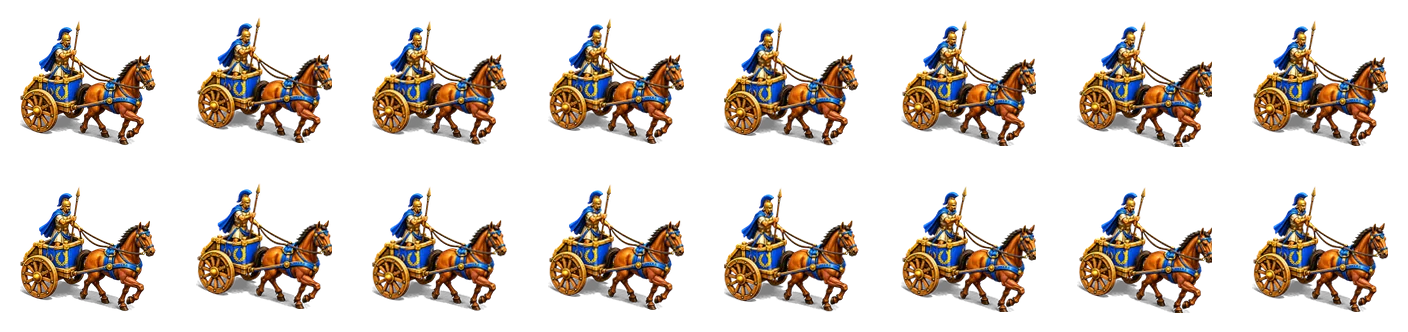
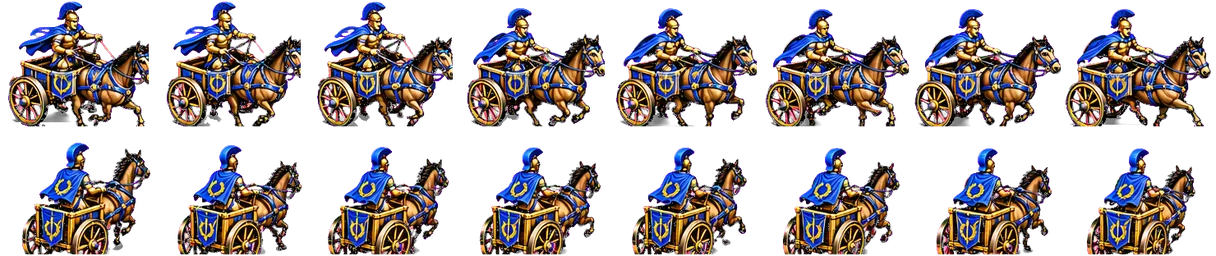
v15: Biblioteca egípcia (B3), Caravana completa (7 quadros + caída + costas), Carro de Guerra, General e Mercador com 8 quadros de frente e de costas
- folhas com ciclo próprio (wf/ws): o passo usa todos os quadros desenhados
- prédios comuns não cobrem mais a versão do povo (egípcios usam a biblioteca egípcia)
- recorte limpa pedaços soltos da fileira vizinha em cada quadro

Claude-Session: https://claude.ai/code/session_01GABPqirBMdktwhnGVNR9nv

diff --git a/index.html b/index.html
@@ -2485,9 +2485,10 @@ function drawUnit(u,selSet){
   // passo: o ciclo anda junto com a distância percorrida (o pé não escorrega no chão)
   const W=S.gpt&&WALK[key.slice(0,-1)];
   const md=hyp(u.x-(u._lx??u.x),u.y-(u._ly??u.y));u._lx=u.x;u._ly=u.y;
-  if(md>0&&md<24)u._wp=((u._wp||0)+md/(w8?S.ay*.95:W?W.cyc:40))%1;
+  if(md>0&&md<24)u._wp=((u._wp||0)+md/(w8?S.ay*.95:S.wf?S.wcyc:W?W.cyc:40))%1;
   let fr=0,bob=0,fx=null;
   if(w8){fr=((u._wp||0)*8|0)%8}
+  else if(S.wf&&u.mv){fr=S.ws+((u._wp||0)*S.wf|0)%S.wf}   // folhas com ciclo próprio de 7 ou 8 quadros
   else if(u.mv){const p=u._wp||0,k=(p*4|0)%4;
     if(W){fr=W.seq[k];bob=W.hum?1.7*(.5-.5*Math.cos(4*Math.PI*(p-.125))):1.1*(.5-.5*Math.cos(4*Math.PI*p));fx=W.fx[dir]&&W.fx[dir][fr]}
     else fr=1+k}
@@ -2579,8 +2580,8 @@ function drawHuntTool(t,S,u){const hx=S.w*.18,hy=-S.ay*.52;ctx.lineCap='round';
     if(pull){ctx.strokeStyle='#d9c9a0';ctx.lineWidth=1.1;ctx.beginPath();ctx.moveTo(ex-pull,hy);ctx.lineTo(cx+R+5,hy);ctx.stroke()}}
   else{ctx.strokeStyle='#3a2616';ctx.lineWidth=2.6;ctx.beginPath();ctx.moveTo(hx-8,hy+4);ctx.lineTo(hx+12,hy-3);ctx.stroke();ctx.strokeStyle='#5a5a5a';ctx.lineWidth=1.6;ctx.beginPath();ctx.moveTo(hx+2,hy);ctx.lineTo(hx+14,hy-4);ctx.stroke()}}
 
-// ---------- arte do GPT: medidas geradas pelo recorta.py / recorta2.py / recorta3.py / recorta4.py ----------
-const GPTART={"u":{"vill":{"w":42.07,"h":63.84,"ax":19.67,"ay":61.81,"dead":true,"team":true},"guer":{"w":41.61,"h":64.23,"ax":19.07,"ay":61.68,"dead":true,"team":true},"guerA":{"w":41.42,"h":66.79,"ax":19.13,"ay":62.96,"dead":true,"team":true},"espa":{"w":40.52,"h":61.66,"ax":17.35,"ay":55.26,"dead":true,"team":true},"gaz":{"w":33.73,"h":40.38,"ax":14.59,"ay":38.59,"dead":false,"team":false},"elfs":{"w":89.6,"h":94.0,"ax":36.36,"ay":89.2,"dead":false,"team":false},"leao":{"w":44.3,"h":45.13,"ax":23.65,"ay":43.48,"dead":false,"team":false},"hopl":{"w":28.14,"h":59.31,"ax":15.61,"ay":53.26,"dead":true,"team":true,"rows":2},"arq":{"w":28.04,"h":55.52,"ax":15.45,"ay":54.83,"dead":true,"team":true,"rows":2},"arqc":{"w":45.85,"h":63.82,"ax":22.28,"ay":61.29,"dead":true,"team":true,"rows":2},"sac":{"w":45.91,"h":68.86,"ax":22.32,"ay":62.95,"dead":true,"team":true,"rows":2},"bat":{"w":60.55,"h":68.51,"ax":31.4,"ay":65.33,"dead":true,"team":true,"rows":2},"cav":{"w":62.27,"h":80.02,"ax":32.72,"ay":74.83,"dead":true,"team":true,"rows":2},"arqcav":{"w":54.38,"h":105.38,"ax":25.15,"ay":91.36,"dead":true,"team":true,"rows":2},"elef":{"w":74.34,"h":142.63,"ax":29.85,"ay":114.37,"dead":true,"team":true,"rows":2},"pedra":{"w":71.9,"h":125.71,"ax":32.72,"ay":109.52,"dead":true,"team":true,"rows":1},"bal":{"w":66.62,"h":126.18,"ax":32.26,"ay":108.97,"dead":true,"team":true,"rows":1},"bguer":{"w":103.38,"h":58.15,"ax":54.2,"ay":57.35,"dead":false,"team":true,"rows":1},"trans":{"w":100.03,"h":60.52,"ax":56.76,"ay":59.12,"dead":false,"team":true,"rows":1},"pesc":{"w":79.5,"h":48.59,"ax":42.91,"ay":46.71,"dead":false,"team":true,"rows":1},"trir":{"w":107.17,"h":65.51,"ax":56.59,"ay":64.6,"dead":false,"team":true,"rows":1},"villW":{"w":47.84,"h":52.16,"ax":26.88,"ay":50.87,"dead":false,"team":true,"rows":2,"walk8":true},"caravana":{"w":66.0,"h":55.0,"ax":32.89,"ay":50.91,"dead":false,"team":true,"rows":2},"carroca":{"w":61.0,"h":55.0,"ax":30.34,"ay":50.72,"dead":false,"team":true,"rows":2},"mercador":{"w":50.5,"h":59.0,"ax":22.79,"ay":54.7,"dead":false,"team":true,"rows":2},"general":{"w":54.5,"h":64.0,"ax":24.86,"ay":59.79,"dead":false,"team":true,"rows":2},"carro":{"w":88.0,"h":83.0,"ax":44.03,"ay":65.0,"dead":false,"team":true,"rows":2,"rock":true}},"b":{"grego":{"tc":{"W":194.57,"H":192.51,"xc":97.03,"top":94.46,"cy":142.46,"bt":1.54,"dw":192.0,"r":[0,0,389,385],"at":"P1"},"casa":{"W":130.77,"H":105.86,"xc":65.38,"top":40.48,"cy":72.48,"bt":1.04,"dw":128.0,"r":[391,0,262,212],"at":"P1"},"celeiro":{"W":133.27,"H":107.25,"xc":67.52,"top":41.85,"cy":73.85,"bt":1.05,"dw":128.0,"r":[655,0,267,215],"at":"P1"},"deposito":{"W":129.72,"H":109.13,"xc":65.03,"top":43.75,"cy":75.75,"bt":1.03,"dw":128.0,"r":[924,0,259,218],"at":"P1"},"mercado":{"W":192.51,"H":176.72,"xc":96.0,"top":78.18,"cy":126.18,"bt":1.53,"dw":192.0,"r":[1185,0,385,353],"at":"P1"},"doca":{"W":132.25,"H":107.79,"xc":66.13,"top":42.02,"cy":74.02,"bt":1.06,"dw":128.0,"r":[1572,0,265,216],"at":"P1"},"torre":{"W":74.62,"H":91.23,"xc":37.31,"top":54.55,"cy":72.47,"bt":0.63,"dw":71.68,"r":[1839,0,149,182],"at":"P1"},"muralha":{"W":69.52,"H":66.76,"xc":37.15,"top":34.02,"cy":50.02,"bt":0.55,"dw":64.0,"r":[1990,0,139,134],"at":"P1"},"quartel":{"W":192.51,"H":169.08,"xc":96.0,"top":71.05,"cy":119.05,"bt":1.53,"dw":192.0,"r":[0,0,385,338],"at":"P2"},"arquearia":{"W":196.67,"H":158.27,"xc":100.15,"top":60.19,"cy":108.19,"bt":1.56,"dw":192.0,"r":[387,0,393,317],"at":"P2"},"estabulo":{"W":192.51,"H":165.59,"xc":96.0,"top":67.05,"cy":115.05,"bt":1.52,"dw":192.0,"r":[782,0,385,331],"at":"P2"},"academia":{"W":192.51,"H":164.5,"xc":96.0,"top":66.46,"cy":114.46,"bt":1.53,"dw":192.0,"r":[1169,0,385,329],"at":"P2"},"templo":{"W":194.57,"H":194.06,"xc":98.06,"top":96.0,"cy":144.0,"bt":1.54,"dw":192.0,"r":[1556,0,389,388],"at":"P2"},"oficina":{"W":192.51,"H":170.67,"xc":96.0,"top":72.13,"cy":120.13,"bt":1.52,"dw":192.0,"r":[1947,0,385,341],"at":"P2"},"maravilha":{"W":256.68,"H":327.11,"xc":128.0,"top":197.08,"cy":261.08,"bt":2.03,"dw":256.0,"r":[2334,0,513,654],"at":"P2"},"alicerce":{"W":128.34,"H":120.87,"xc":64.0,"top":55.51,"cy":87.51,"bt":1.02,"dw":128.0,"r":[2849,0,257,242],"at":"P2"}},"egito":{"tc":{"W":193.05,"H":240.26,"xc":96.0,"top":140.07,"cy":188.07,"bt":3.15,"dw":192.0,"at":"E","r":[0,0,386,481]},"casa":{"W":130.84,"H":128.0,"xc":66.13,"top":60.44,"cy":92.44,"bt":2.13,"dw":128.0,"at":"E","r":[388,0,262,256]},"celeiro":{"W":128.7,"H":150.38,"xc":64.0,"top":83.58,"cy":115.58,"bt":2.1,"dw":128.0,"at":"E","r":[652,0,257,301]},"deposito":{"W":128.7,"H":160.17,"xc":64.0,"top":93.38,"cy":125.38,"bt":2.1,"dw":128.0,"at":"E","r":[911,0,257,320]},"mercado":{"W":193.05,"H":224.52,"xc":96.0,"top":124.33,"cy":172.33,"bt":3.15,"dw":192.0,"at":"E","r":[1170,0,386,449]},"doca":{"W":134.58,"H":160.18,"xc":69.85,"top":93.26,"cy":125.26,"bt":2.19,"dw":128.0,"at":"E","r":[1558,0,269,320]},"torre":{"W":85.09,"H":138.27,"xc":44.63,"top":100.12,"cy":118.04,"bt":1.39,"dw":71.68,"at":"E","r":[1829,0,170,277]},"quartel":{"W":196.27,"H":238.93,"xc":99.2,"top":137.6,"cy":185.6,"bt":3.2,"dw":192.0,"at":"E","r":[2001,0,393,478]},"arquearia":{"W":193.05,"H":223.48,"xc":96.0,"top":122.23,"cy":170.23,"bt":3.15,"dw":192.0,"at":"E","r":[2396,0,386,447]},"estabulo":{"W":193.05,"H":226.62,"xc":96.0,"top":126.43,"cy":174.43,"bt":3.15,"dw":192.0,"at":"E","r":[2784,0,386,453]},"academia":{"W":196.27,"H":243.2,"xc":99.2,"top":141.87,"cy":189.87,"bt":3.2,"dw":192.0,"at":"E","r":[3172,0,393,486]},"templo":{"W":194.11,"H":282.73,"xc":97.05,"top":181.45,"cy":229.45,"bt":3.16,"dw":192.0,"at":"E","r":[3567,0,388,565]},"oficina":{"W":198.47,"H":259.96,"xc":101.39,"top":159.64,"cy":207.64,"bt":3.24,"dw":192.0,"at":"E","r":[3957,0,397,520]},"maravilha":{"W":257.4,"H":267.19,"xc":128.0,"top":133.6,"cy":197.6,"bt":4.2,"dw":256.0,"at":"E","r":[4356,0,515,534]}},"comum":{"biblioteca":{"W":199.56,"H":213.71,"xc":100.15,"top":112.81,"cy":161.77,"bt":2.23,"dw":195.84,"r":[0,0,399,427],"at":"R1"},"forte":{"W":204.69,"H":137.0,"xc":102.35,"top":35.09,"cy":85.97,"bt":0.44,"dw":203.52,"r":[401,0,409,274],"at":"R1"}}},"n":{"tree0":{"W":78.5,"H":85.21,"xc":39.25,"top":49.31,"cy":66.81,"bt":0.67,"dw":70.0,"r":[0,0,157,170],"at":"N1"},"tree1":{"W":82.17,"H":92.36,"xc":41.3,"top":51.27,"cy":71.27,"bt":0.65,"dw":80.0,"r":[159,0,164,185],"at":"N1"},"tree3":{"W":81.59,"H":103.26,"xc":40.79,"top":69.29,"cy":85.79,"bt":0.73,"dw":66.0,"r":[325,0,163,207],"at":"N1"},"tree4":{"W":64.16,"H":90.42,"xc":32.08,"top":62.58,"cy":76.08,"bt":0.64,"dw":54.0,"r":[490,0,128,181],"at":"N1"},"tree5":{"W":80.34,"H":102.58,"xc":40.17,"top":68.6,"cy":85.1,"bt":0.74,"dw":66.0,"r":[620,0,161,205],"at":"N1"},"tree6":{"W":95.33,"H":110.81,"xc":40.6,"top":76.73,"cy":93.23,"bt":0.81,"dw":66.0,"r":[783,0,191,222],"at":"N1"},"tree7":{"W":100.45,"H":90.08,"xc":46.5,"top":51.02,"cy":70.02,"bt":0.8,"dw":76.0,"r":[976,0,201,180],"at":"N1"},"berry":{"W":66.01,"H":55.26,"xc":33.01,"top":26.33,"cy":40.33,"bt":0.56,"dw":56.0,"r":[1179,0,132,111],"at":"N1"},"gold":{"W":60.97,"H":40.43,"xc":30.49,"top":9.78,"cy":24.78,"bt":0.49,"dw":60.0,"r":[0,0,122,81],"at":"N2"},"mina":{"W":97.28,"H":85.99,"xc":49.03,"top":36.96,"cy":60.96,"bt":0.77,"dw":96.0,"r":[124,0,195,172],"at":"N2"},"stone":{"W":61.3,"H":41.68,"xc":30.65,"top":11.03,"cy":26.03,"bt":0.49,"dw":60.0,"r":[321,0,123,83],"at":"N2"},"pedreira":{"W":97.29,"H":89.29,"xc":49.03,"top":40.26,"cy":64.26,"bt":0.77,"dw":96.0,"r":[446,0,195,179],"at":"N2"},"fish":{"W":62.86,"H":42.1,"xc":31.43,"top":13.33,"cy":27.33,"bt":0.57,"dw":56.0,"r":[643,0,126,84],"at":"N2"},"carc":{"W":59.25,"H":34.02,"xc":29.63,"top":4.23,"cy":18.73,"bt":0.47,"dw":58.0,"r":[771,0,119,68],"at":"N2"},"carcE":{"W":83.55,"H":58.35,"xc":41.66,"top":16.25,"cy":36.75,"bt":0.66,"dw":82.0,"r":[892,0,167,117],"at":"N2"},"toco":{"W":40.98,"H":25.5,"xc":20.33,"top":4.96,"cy":14.96,"bt":0.33,"dw":40.0,"r":[1061,0,82,51],"at":"N2"}},"x":{"raro_gemas":{"W":87.11,"H":67.41,"xc":43.56,"top":23.33,"cy":44.33,"bt":1.56,"dw":84.0,"r":[0,0,174,135],"at":"R2"},"raro_uvas":{"W":86.74,"H":73.04,"xc":43.37,"top":29.22,"cy":50.22,"bt":1.37,"dw":84.0,"r":[176,0,173,146],"at":"R2"},"raro_sal":{"W":87.05,"H":64.15,"xc":43.53,"top":20.11,"cy":41.11,"bt":1.53,"dw":84.0,"r":[351,0,174,128],"at":"R2"},"raro_cavalos":{"W":87.65,"H":74.41,"xc":43.83,"top":30.59,"cy":51.59,"bt":1.37,"dw":84.0,"r":[527,0,175,149],"at":"R2"},"raro_cedro":{"W":87.02,"H":80.98,"xc":43.51,"top":36.97,"cy":57.97,"bt":1.51,"dw":84.0,"r":[704,0,174,162],"at":"R2"},"raro_marmore":{"W":87.07,"H":79.39,"xc":43.54,"top":35.34,"cy":56.34,"bt":1.54,"dw":84.0,"r":[880,0,174,159],"at":"R2"},"raro_seda":{"W":87.05,"H":84.0,"xc":43.53,"top":39.96,"cy":60.96,"bt":1.53,"dw":84.0,"r":[1056,0,174,168],"at":"R2"},"raro_ervas":{"W":87.23,"H":77.54,"xc":43.62,"top":33.38,"cy":54.38,"bt":1.62,"dw":84.0,"r":[1232,0,174,155],"at":"R2"},"ruina0":{"W":121.16,"H":123.27,"xc":60.58,"top":62.16,"cy":91.66,"bt":1.58,"dw":118.0,"r":[1408,0,242,247],"at":"R2"},"ruina1":{"W":121.69,"H":108.32,"xc":60.84,"top":47.02,"cy":76.52,"bt":1.38,"dw":118.0,"r":[1652,0,243,217],"at":"R2"},"ruina2":{"W":121.79,"H":109.94,"xc":60.9,"top":49.05,"cy":78.55,"bt":1.42,"dw":118.0,"r":[1897,0,244,220],"at":"R2"},"ruina3":{"W":121.08,"H":119.54,"xc":60.54,"top":57.97,"cy":87.47,"bt":1.54,"dw":118.0,"r":[2143,0,242,239],"at":"R2"},"ruina4":{"W":121.63,"H":119.82,"xc":60.82,"top":58.39,"cy":87.89,"bt":1.82,"dw":118.0,"r":[2387,0,243,240],"at":"R2"},"ruina5":{"W":121.49,"H":119.16,"xc":60.74,"top":57.84,"cy":87.34,"bt":1.74,"dw":118.0,"r":[2632,0,243,238],"at":"R2"}}};
+// ---------- arte do GPT: medidas geradas pelos recorta*.py ----------
+const GPTART={"u":{"vill":{"w":42.07,"h":63.84,"ax":19.67,"ay":61.81,"dead":true,"team":true},"guer":{"w":41.61,"h":64.23,"ax":19.07,"ay":61.68,"dead":true,"team":true},"guerA":{"w":41.42,"h":66.79,"ax":19.13,"ay":62.96,"dead":true,"team":true},"espa":{"w":40.52,"h":61.66,"ax":17.35,"ay":55.26,"dead":true,"team":true},"gaz":{"w":33.73,"h":40.38,"ax":14.59,"ay":38.59,"dead":false,"team":false},"elfs":{"w":89.6,"h":94.0,"ax":36.36,"ay":89.2,"dead":false,"team":false},"leao":{"w":44.3,"h":45.13,"ax":23.65,"ay":43.48,"dead":false,"team":false},"hopl":{"w":28.14,"h":59.31,"ax":15.61,"ay":53.26,"dead":true,"team":true,"rows":2},"arq":{"w":28.04,"h":55.52,"ax":15.45,"ay":54.83,"dead":true,"team":true,"rows":2},"arqc":{"w":45.85,"h":63.82,"ax":22.28,"ay":61.29,"dead":true,"team":true,"rows":2},"sac":{"w":45.91,"h":68.86,"ax":22.32,"ay":62.95,"dead":true,"team":true,"rows":2},"bat":{"w":60.55,"h":68.51,"ax":31.4,"ay":65.33,"dead":true,"team":true,"rows":2},"cav":{"w":62.27,"h":80.02,"ax":32.72,"ay":74.83,"dead":true,"team":true,"rows":2},"arqcav":{"w":54.38,"h":105.38,"ax":25.15,"ay":91.36,"dead":true,"team":true,"rows":2},"elef":{"w":74.34,"h":142.63,"ax":29.85,"ay":114.37,"dead":true,"team":true,"rows":2},"pedra":{"w":71.9,"h":125.71,"ax":32.72,"ay":109.52,"dead":true,"team":true,"rows":1},"bal":{"w":66.62,"h":126.18,"ax":32.26,"ay":108.97,"dead":true,"team":true,"rows":1},"bguer":{"w":103.38,"h":58.15,"ax":54.2,"ay":57.35,"dead":false,"team":true,"rows":1},"trans":{"w":100.03,"h":60.52,"ax":56.76,"ay":59.12,"dead":false,"team":true,"rows":1},"pesc":{"w":79.5,"h":48.59,"ax":42.91,"ay":46.71,"dead":false,"team":true,"rows":1},"trir":{"w":107.17,"h":65.51,"ax":56.59,"ay":64.6,"dead":false,"team":true,"rows":1},"villW":{"w":47.84,"h":52.16,"ax":26.88,"ay":50.87,"dead":false,"team":true,"rows":2,"walk8":true},"caravana":{"w":42.35,"h":48.84,"ax":27.15,"ay":47.01,"dead":true,"team":true,"rows":2,"wf":7,"ws":0},"carroca":{"w":61.0,"h":55.0,"ax":30.34,"ay":50.72,"dead":false,"team":true,"rows":2},"mercador":{"w":50.4,"h":57.6,"ax":25.62,"ay":56.0,"dead":false,"team":true,"rows":2,"wf":8,"ws":0},"general":{"w":58.69,"h":68.13,"ax":32.6,"ay":66.9,"dead":false,"team":true,"rows":2,"wf":8,"ws":0},"carro":{"w":75.96,"h":64.05,"ax":34.31,"ay":62.82,"dead":false,"team":true,"rows":2,"wf":8,"ws":0}},"b":{"grego":{"tc":{"W":194.57,"H":192.51,"xc":97.03,"top":94.46,"cy":142.46,"bt":1.54,"dw":192.0,"r":[0,0,389,385],"at":"P1"},"casa":{"W":130.77,"H":105.86,"xc":65.38,"top":40.48,"cy":72.48,"bt":1.04,"dw":128.0,"r":[391,0,262,212],"at":"P1"},"celeiro":{"W":133.27,"H":107.25,"xc":67.52,"top":41.85,"cy":73.85,"bt":1.05,"dw":128.0,"r":[655,0,267,215],"at":"P1"},"deposito":{"W":129.72,"H":109.13,"xc":65.03,"top":43.75,"cy":75.75,"bt":1.03,"dw":128.0,"r":[924,0,259,218],"at":"P1"},"mercado":{"W":192.51,"H":176.72,"xc":96.0,"top":78.18,"cy":126.18,"bt":1.53,"dw":192.0,"r":[1185,0,385,353],"at":"P1"},"doca":{"W":132.25,"H":107.79,"xc":66.13,"top":42.02,"cy":74.02,"bt":1.06,"dw":128.0,"r":[1572,0,265,216],"at":"P1"},"torre":{"W":74.62,"H":91.23,"xc":37.31,"top":54.55,"cy":72.47,"bt":0.63,"dw":71.68,"r":[1839,0,149,182],"at":"P1"},"muralha":{"W":69.52,"H":66.76,"xc":37.15,"top":34.02,"cy":50.02,"bt":0.55,"dw":64.0,"r":[1990,0,139,134],"at":"P1"},"quartel":{"W":192.51,"H":169.08,"xc":96.0,"top":71.05,"cy":119.05,"bt":1.53,"dw":192.0,"r":[0,0,385,338],"at":"P2"},"arquearia":{"W":196.67,"H":158.27,"xc":100.15,"top":60.19,"cy":108.19,"bt":1.56,"dw":192.0,"r":[387,0,393,317],"at":"P2"},"estabulo":{"W":192.51,"H":165.59,"xc":96.0,"top":67.05,"cy":115.05,"bt":1.52,"dw":192.0,"r":[782,0,385,331],"at":"P2"},"academia":{"W":192.51,"H":164.5,"xc":96.0,"top":66.46,"cy":114.46,"bt":1.53,"dw":192.0,"r":[1169,0,385,329],"at":"P2"},"templo":{"W":194.57,"H":194.06,"xc":98.06,"top":96.0,"cy":144.0,"bt":1.54,"dw":192.0,"r":[1556,0,389,388],"at":"P2"},"oficina":{"W":192.51,"H":170.67,"xc":96.0,"top":72.13,"cy":120.13,"bt":1.52,"dw":192.0,"r":[1947,0,385,341],"at":"P2"},"maravilha":{"W":256.68,"H":327.11,"xc":128.0,"top":197.08,"cy":261.08,"bt":2.03,"dw":256.0,"r":[2334,0,513,654],"at":"P2"},"alicerce":{"W":128.34,"H":120.87,"xc":64.0,"top":55.51,"cy":87.51,"bt":1.02,"dw":128.0,"r":[2849,0,257,242],"at":"P2"}},"egito":{"tc":{"W":193.05,"H":240.26,"xc":96.0,"top":140.07,"cy":188.07,"bt":3.15,"dw":192.0,"at":"E","r":[0,0,386,481]},"casa":{"W":130.84,"H":128.0,"xc":66.13,"top":60.44,"cy":92.44,"bt":2.13,"dw":128.0,"at":"E","r":[388,0,262,256]},"celeiro":{"W":128.7,"H":150.38,"xc":64.0,"top":83.58,"cy":115.58,"bt":2.1,"dw":128.0,"at":"E","r":[652,0,257,301]},"deposito":{"W":128.7,"H":160.17,"xc":64.0,"top":93.38,"cy":125.38,"bt":2.1,"dw":128.0,"at":"E","r":[911,0,257,320]},"mercado":{"W":193.05,"H":224.52,"xc":96.0,"top":124.33,"cy":172.33,"bt":3.15,"dw":192.0,"at":"E","r":[1170,0,386,449]},"doca":{"W":134.58,"H":160.18,"xc":69.85,"top":93.26,"cy":125.26,"bt":2.19,"dw":128.0,"at":"E","r":[1558,0,269,320]},"torre":{"W":85.09,"H":138.27,"xc":44.63,"top":100.12,"cy":118.04,"bt":1.39,"dw":71.68,"at":"E","r":[1829,0,170,277]},"quartel":{"W":196.27,"H":238.93,"xc":99.2,"top":137.6,"cy":185.6,"bt":3.2,"dw":192.0,"at":"E","r":[2001,0,393,478]},"arquearia":{"W":193.05,"H":223.48,"xc":96.0,"top":122.23,"cy":170.23,"bt":3.15,"dw":192.0,"at":"E","r":[2396,0,386,447]},"estabulo":{"W":193.05,"H":226.62,"xc":96.0,"top":126.43,"cy":174.43,"bt":3.15,"dw":192.0,"at":"E","r":[2784,0,386,453]},"academia":{"W":196.27,"H":243.2,"xc":99.2,"top":141.87,"cy":189.87,"bt":3.2,"dw":192.0,"at":"E","r":[3172,0,393,486]},"templo":{"W":194.11,"H":282.73,"xc":97.05,"top":181.45,"cy":229.45,"bt":3.16,"dw":192.0,"at":"E","r":[3567,0,388,565]},"oficina":{"W":198.47,"H":259.96,"xc":101.39,"top":159.64,"cy":207.64,"bt":3.24,"dw":192.0,"at":"E","r":[3957,0,397,520]},"maravilha":{"W":257.4,"H":267.19,"xc":128.0,"top":133.6,"cy":197.6,"bt":4.2,"dw":256.0,"at":"E","r":[4356,0,515,534]},"biblioteca":{"W":198.28,"H":158.9,"xc":99.14,"top":61.33,"cy":109.77,"bt":0.52,"dw":193.75,"r":[0,0,397,318],"at":"E2"}},"comum":{"biblioteca":{"W":199.56,"H":213.71,"xc":100.15,"top":112.81,"cy":161.77,"bt":2.23,"dw":195.84,"r":[0,0,399,427],"at":"R1"},"forte":{"W":204.69,"H":137.0,"xc":102.35,"top":35.09,"cy":85.97,"bt":0.44,"dw":203.52,"r":[401,0,409,274],"at":"R1"}}},"n":{"tree0":{"W":78.5,"H":85.21,"xc":39.25,"top":49.31,"cy":66.81,"bt":0.67,"dw":70.0,"r":[0,0,157,170],"at":"N1"},"tree1":{"W":82.17,"H":92.36,"xc":41.3,"top":51.27,"cy":71.27,"bt":0.65,"dw":80.0,"r":[159,0,164,185],"at":"N1"},"tree3":{"W":81.59,"H":103.26,"xc":40.79,"top":69.29,"cy":85.79,"bt":0.73,"dw":66.0,"r":[325,0,163,207],"at":"N1"},"tree4":{"W":64.16,"H":90.42,"xc":32.08,"top":62.58,"cy":76.08,"bt":0.64,"dw":54.0,"r":[490,0,128,181],"at":"N1"},"tree5":{"W":80.34,"H":102.58,"xc":40.17,"top":68.6,"cy":85.1,"bt":0.74,"dw":66.0,"r":[620,0,161,205],"at":"N1"},"tree6":{"W":95.33,"H":110.81,"xc":40.6,"top":76.73,"cy":93.23,"bt":0.81,"dw":66.0,"r":[783,0,191,222],"at":"N1"},"tree7":{"W":100.45,"H":90.08,"xc":46.5,"top":51.02,"cy":70.02,"bt":0.8,"dw":76.0,"r":[976,0,201,180],"at":"N1"},"berry":{"W":66.01,"H":55.26,"xc":33.01,"top":26.33,"cy":40.33,"bt":0.56,"dw":56.0,"r":[1179,0,132,111],"at":"N1"},"gold":{"W":60.97,"H":40.43,"xc":30.49,"top":9.78,"cy":24.78,"bt":0.49,"dw":60.0,"r":[0,0,122,81],"at":"N2"},"mina":{"W":97.28,"H":85.99,"xc":49.03,"top":36.96,"cy":60.96,"bt":0.77,"dw":96.0,"r":[124,0,195,172],"at":"N2"},"stone":{"W":61.3,"H":41.68,"xc":30.65,"top":11.03,"cy":26.03,"bt":0.49,"dw":60.0,"r":[321,0,123,83],"at":"N2"},"pedreira":{"W":97.29,"H":89.29,"xc":49.03,"top":40.26,"cy":64.26,"bt":0.77,"dw":96.0,"r":[446,0,195,179],"at":"N2"},"fish":{"W":62.86,"H":42.1,"xc":31.43,"top":13.33,"cy":27.33,"bt":0.57,"dw":56.0,"r":[643,0,126,84],"at":"N2"},"carc":{"W":59.25,"H":34.02,"xc":29.63,"top":4.23,"cy":18.73,"bt":0.47,"dw":58.0,"r":[771,0,119,68],"at":"N2"},"carcE":{"W":83.55,"H":58.35,"xc":41.66,"top":16.25,"cy":36.75,"bt":0.66,"dw":82.0,"r":[892,0,167,117],"at":"N2"},"toco":{"W":40.98,"H":25.5,"xc":20.33,"top":4.96,"cy":14.96,"bt":0.33,"dw":40.0,"r":[1061,0,82,51],"at":"N2"}},"x":{"raro_gemas":{"W":87.11,"H":67.41,"xc":43.56,"top":23.33,"cy":44.33,"bt":1.56,"dw":84.0,"r":[0,0,174,135],"at":"R2"},"raro_uvas":{"W":86.74,"H":73.04,"xc":43.37,"top":29.22,"cy":50.22,"bt":1.37,"dw":84.0,"r":[176,0,173,146],"at":"R2"},"raro_sal":{"W":87.05,"H":64.15,"xc":43.53,"top":20.11,"cy":41.11,"bt":1.53,"dw":84.0,"r":[351,0,174,128],"at":"R2"},"raro_cavalos":{"W":87.65,"H":74.41,"xc":43.83,"top":30.59,"cy":51.59,"bt":1.37,"dw":84.0,"r":[527,0,175,149],"at":"R2"},"raro_cedro":{"W":87.02,"H":80.98,"xc":43.51,"top":36.97,"cy":57.97,"bt":1.51,"dw":84.0,"r":[704,0,174,162],"at":"R2"},"raro_marmore":{"W":87.07,"H":79.39,"xc":43.54,"top":35.34,"cy":56.34,"bt":1.54,"dw":84.0,"r":[880,0,174,159],"at":"R2"},"raro_seda":{"W":87.05,"H":84.0,"xc":43.53,"top":39.96,"cy":60.96,"bt":1.53,"dw":84.0,"r":[1056,0,174,168],"at":"R2"},"raro_ervas":{"W":87.23,"H":77.54,"xc":43.62,"top":33.38,"cy":54.38,"bt":1.62,"dw":84.0,"r":[1232,0,174,155],"at":"R2"},"ruina0":{"W":121.16,"H":123.27,"xc":60.58,"top":62.16,"cy":91.66,"bt":1.58,"dw":118.0,"r":[1408,0,242,247],"at":"R2"},"ruina1":{"W":121.69,"H":108.32,"xc":60.84,"top":47.02,"cy":76.52,"bt":1.38,"dw":118.0,"r":[1652,0,243,217],"at":"R2"},"ruina2":{"W":121.79,"H":109.94,"xc":60.9,"top":49.05,"cy":78.55,"bt":1.42,"dw":118.0,"r":[1897,0,244,220],"at":"R2"},"ruina3":{"W":121.08,"H":119.54,"xc":60.54,"top":57.97,"cy":87.47,"bt":1.54,"dw":118.0,"r":[2143,0,242,239],"at":"R2"},"ruina4":{"W":121.63,"H":119.82,"xc":60.82,"top":58.39,"cy":87.89,"bt":1.82,"dw":118.0,"r":[2387,0,243,240],"at":"R2"},"ruina5":{"W":121.49,"H":119.16,"xc":60.74,"top":57.84,"cy":87.34,"bt":1.74,"dw":118.0,"r":[2632,0,243,238],"at":"R2"}}};
 
 // =========================================================
 //   ARTE DO GPT: imagens prontas no lugar dos desenhos do código
@@ -2628,15 +2629,15 @@ function applyGPTArt(){
   for(const k in GPTART.u){const m=GPTART.u[k];
     for(const v of m.team?[0,1]:[2]){const img=GA['u_'+k+'_'+v];if(!img)continue;const nc=m.dead?9:8;
       const w=img.width/nc/SS,h=img.height/(m.rows||2)/SS,kx=w/m.w,ky=h/m.h;
-      SHEET[k+v]={c:img,w,h,ax:m.ax*kx,ay:m.ay*ky,gpt:1,dead:m.dead};delete META[k+v]}
-    const im0=GA['u_'+k+'_'+(m.team?0:2)];if(im0&&!WALK[k]&&!m.walk8)try{gaWalk(k,m,im0)}catch(e){WALK[k]={hum:0,seq:[1,2,3,4],fx:[],cyc:40}}}
+      SHEET[k+v]={c:img,w,h,ax:m.ax*kx,ay:m.ay*ky,gpt:1,dead:m.dead,wf:m.wf||0,ws:m.ws||0,wcyc:m.wf?(UT[k]&&['merc','cav','arqcav','elef','cerco'].includes(UT[k].cls)&&k!=='mercador'?w*.8:m.ay*ky*.95):0};delete META[k+v]}
+    const im0=GA['u_'+k+'_'+(m.team?0:2)];if(im0&&!WALK[k]&&!m.walk8&&!m.wf)try{gaWalk(k,m,im0)}catch(e){WALK[k]={hum:0,seq:[1,2,3,4],fx:[],cyc:40}}}
   // prédios gregos (azul para o jogador, vermelho para o inimigo)
   const B=GPTART.b.grego;
   for(let o=0;o<2;o++){const st=civOf(o).st,BS=GPTART.b[st];if(!BS)continue;
     for(const t in BS){if(GA_NOWALL[t]||!BT[t])continue;const m=BS[t],img=GA['b_'+st+'_'+m.at+'_'+o];if(!img)continue;
       const c=gaCut(img,m.r);SPR['b'+t+o]={c,dk:o===0?c:darkCopy(c),W:m.W,H:m.H,top:m.top,bt:m.bt,gpt:1}}}
   // prédios iguais para todos os povos (Biblioteca, Forte)
-  const BC=GPTART.b.comum;if(BC)for(let o=0;o<2;o++)for(const t in BC){if(!BT[t])continue;const m=BC[t],img=GA['b_comum_'+m.at+'_'+o];if(!img)continue;const c=gaCut(img,m.r);SPR['b'+t+o]={c,dk:o===0?c:darkCopy(c),W:m.W,H:m.H,top:m.top,bt:m.bt,gpt:1}}
+  const BC=GPTART.b.comum;if(BC)for(let o=0;o<2;o++)for(const t in BC){if(!BT[t]||(SPR['b'+t+o]&&SPR['b'+t+o].gpt))continue;const m=BC[t],img=GA['b_comum_'+m.at+'_'+o];if(!img)continue;const c=gaCut(img,m.r);SPR['b'+t+o]={c,dk:o===0?c:darkCopy(c),W:m.W,H:m.H,top:m.top,bt:m.bt,gpt:1}}
   // recursos raros e ruínas (versão azul e vermelha)
   if(GPTART.x)for(const k in GPTART.x){const m=GPTART.x[k];for(const v of[0,1]){const img=GA['x_'+m.at+'_'+v];if(!img)continue;SPR['x_'+k+'_'+v]={c:gaCut(img,m.r),w:m.W,h:m.H,ax:m.xc,ay:m.cy}}}
   // alicerce (obra) para todos os estilos
@@ -3317,7 +3318,7 @@ if('serviceWorker'in navigator&&location.protocol==='https:')navigator.serviceWo
 window.__RA={get G(){return G},step,aiTick,newGame,startGame,getE,cam:()=>({x:camX,y:camY,z:Z}),sel:()=>SEL,plc:()=>placing,setCam:(x,y,z)=>{camX=x;camY=y;if(z)Z=z},updVis,render,drawMM,w2s,recompute};
 window.__padState=()=>PAD;
 // ---------- botão de atualizar: limpa a cópia guardada e baixa a versão nova ----------
-const VERSAO='Versão 14';$('ver').textContent=VERSAO;
+const VERSAO='Versão 15';$('ver').textContent=VERSAO;
 $('bupd').onclick=async()=>{snd('click');const t=$('updt');
   if(!navigator.onLine){t.textContent='📶 Sem internet. Ligue os dados ou o Wi-Fi e tente de novo.';return}
   t.textContent='🔄 Procurando a versão nova...';

diff --git a/sw.js b/sw.js
@@ -1,7 +1,7 @@
 // Guarda o jogo no celular para funcionar sem internet.
 // Ao atualizar o jogo, troque o número da versão abaixo (v1 -> v2 ...).
-const CACHE = 'imperio-v14';
-const FILES = ['./', './index.html', './manifest.json', './icon-192.png', './icon-512.png', './assets/abertura.jpg', './assets/gpt/b_egito_E_0.webp', './assets/gpt/b_egito_E_1.webp', './assets/gpt/b_grego_P1_0.webp', './assets/gpt/b_grego_P1_1.webp', './assets/gpt/b_grego_P2_0.webp', './assets/gpt/b_grego_P2_1.webp', './assets/gpt/n_N1.webp', './assets/gpt/n_N2.webp', './assets/gpt/t_areia.webp', './assets/gpt/t_fundo.webp', './assets/gpt/t_grama.webp', './assets/gpt/t_raso.webp', './assets/gpt/t_seca.webp', './assets/gpt/t_terra.webp', './assets/gpt/u_arq_0.webp', './assets/gpt/u_arq_1.webp', './assets/gpt/u_arqc_0.webp', './assets/gpt/u_arqc_1.webp', './assets/gpt/u_arqcav_0.webp', './assets/gpt/u_arqcav_1.webp', './assets/gpt/u_bal_0.webp', './assets/gpt/u_bal_1.webp', './assets/gpt/u_bat_0.webp', './assets/gpt/u_bat_1.webp', './assets/gpt/u_bguer_0.webp', './assets/gpt/u_bguer_1.webp', './assets/gpt/u_cav_0.webp', './assets/gpt/u_cav_1.webp', './assets/gpt/u_elef_0.webp', './assets/gpt/u_elef_1.webp', './assets/gpt/u_elfs_2.webp', './assets/gpt/u_espa_0.webp', './assets/gpt/u_espa_1.webp', './assets/gpt/u_gaz_2.webp', './assets/gpt/u_guerA_0.webp', './assets/gpt/u_guerA_1.webp', './assets/gpt/u_guer_0.webp', './assets/gpt/u_guer_1.webp', './assets/gpt/u_hopl_0.webp', './assets/gpt/u_hopl_1.webp', './assets/gpt/u_leao_2.webp', './assets/gpt/u_pedra_0.webp', './assets/gpt/u_pedra_1.webp', './assets/gpt/u_pesc_0.webp', './assets/gpt/u_pesc_1.webp', './assets/gpt/u_sac_0.webp', './assets/gpt/u_sac_1.webp', './assets/gpt/u_trans_0.webp', './assets/gpt/u_trans_1.webp', './assets/gpt/u_trir_0.webp', './assets/gpt/u_trir_1.webp', './assets/gpt/u_vill_0.webp', './assets/gpt/u_vill_1.webp', './assets/gpt/u_villW_0.webp', './assets/gpt/u_villW_1.webp', './assets/gpt/u_carro_0.webp', './assets/gpt/u_carro_1.webp', './assets/gpt/b_comum_R1_0.webp', './assets/gpt/b_comum_R1_1.webp', './assets/gpt/x_R2_0.webp', './assets/gpt/x_R2_1.webp', './assets/gpt/u_caravana_0.webp', './assets/gpt/u_caravana_1.webp', './assets/gpt/u_carroca_0.webp', './assets/gpt/u_carroca_1.webp', './assets/gpt/u_mercador_0.webp', './assets/gpt/u_mercador_1.webp', './assets/gpt/u_general_0.webp', './assets/gpt/u_general_1.webp'];
+const CACHE = 'imperio-v15';
+const FILES = ['./', './index.html', './manifest.json', './icon-192.png', './icon-512.png', './assets/abertura.jpg', './assets/gpt/b_egito_E_0.webp', './assets/gpt/b_egito_E_1.webp', './assets/gpt/b_grego_P1_0.webp', './assets/gpt/b_grego_P1_1.webp', './assets/gpt/b_grego_P2_0.webp', './assets/gpt/b_grego_P2_1.webp', './assets/gpt/n_N1.webp', './assets/gpt/n_N2.webp', './assets/gpt/t_areia.webp', './assets/gpt/t_fundo.webp', './assets/gpt/t_grama.webp', './assets/gpt/t_raso.webp', './assets/gpt/t_seca.webp', './assets/gpt/t_terra.webp', './assets/gpt/u_arq_0.webp', './assets/gpt/u_arq_1.webp', './assets/gpt/u_arqc_0.webp', './assets/gpt/u_arqc_1.webp', './assets/gpt/u_arqcav_0.webp', './assets/gpt/u_arqcav_1.webp', './assets/gpt/u_bal_0.webp', './assets/gpt/u_bal_1.webp', './assets/gpt/u_bat_0.webp', './assets/gpt/u_bat_1.webp', './assets/gpt/u_bguer_0.webp', './assets/gpt/u_bguer_1.webp', './assets/gpt/u_cav_0.webp', './assets/gpt/u_cav_1.webp', './assets/gpt/u_elef_0.webp', './assets/gpt/u_elef_1.webp', './assets/gpt/u_elfs_2.webp', './assets/gpt/u_espa_0.webp', './assets/gpt/u_espa_1.webp', './assets/gpt/u_gaz_2.webp', './assets/gpt/u_guerA_0.webp', './assets/gpt/u_guerA_1.webp', './assets/gpt/u_guer_0.webp', './assets/gpt/u_guer_1.webp', './assets/gpt/u_hopl_0.webp', './assets/gpt/u_hopl_1.webp', './assets/gpt/u_leao_2.webp', './assets/gpt/u_pedra_0.webp', './assets/gpt/u_pedra_1.webp', './assets/gpt/u_pesc_0.webp', './assets/gpt/u_pesc_1.webp', './assets/gpt/u_sac_0.webp', './assets/gpt/u_sac_1.webp', './assets/gpt/u_trans_0.webp', './assets/gpt/u_trans_1.webp', './assets/gpt/u_trir_0.webp', './assets/gpt/u_trir_1.webp', './assets/gpt/u_vill_0.webp', './assets/gpt/u_vill_1.webp', './assets/gpt/u_villW_0.webp', './assets/gpt/u_villW_1.webp', './assets/gpt/b_egito_E2_0.webp', './assets/gpt/b_egito_E2_1.webp', './assets/gpt/u_carro_0.webp', './assets/gpt/u_carro_1.webp', './assets/gpt/b_comum_R1_0.webp', './assets/gpt/b_comum_R1_1.webp', './assets/gpt/x_R2_0.webp', './assets/gpt/x_R2_1.webp', './assets/gpt/u_caravana_0.webp', './assets/gpt/u_caravana_1.webp', './assets/gpt/u_carroca_0.webp', './assets/gpt/u_carroca_1.webp', './assets/gpt/u_mercador_0.webp', './assets/gpt/u_mercador_1.webp', './assets/gpt/u_general_0.webp', './assets/gpt/u_general_1.webp'];
 self.addEventListener('install', e => {
   e.waitUntil(caches.open(CACHE).then(c => c.addAll(FILES)));
   self.skipWaiting();

diff --git a/README.md b/README.md
@@ -30,5 +30,5 @@ Jogo de estratégia em tempo real para celular (antes chamado *Reinos Antigos*),
 
 ## Arquivos
 - `index.html` — o jogo inteiro (desenhos, regras, inteligência do inimigo, sons e música)
-- `sw.js` — guarda o jogo no celular para funcionar offline (ao atualizar o jogo, trocar a versão `imperio-v14` → `imperio-v15`)
+- `sw.js` — guarda o jogo no celular para funcionar offline (ao atualizar o jogo, trocar a versão `imperio-v15` → `imperio-v16`)
 - `manifest.json` e ícones — instalação como app
